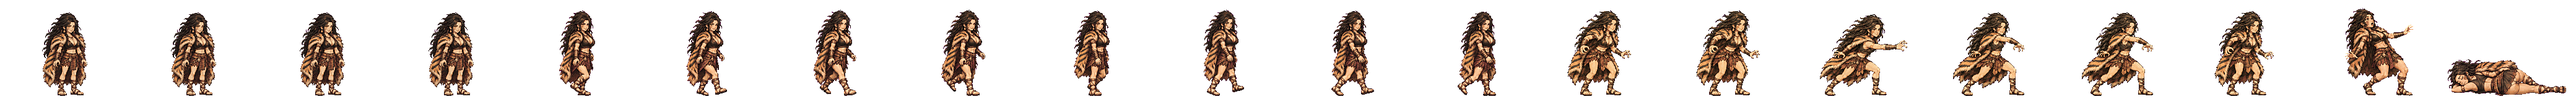
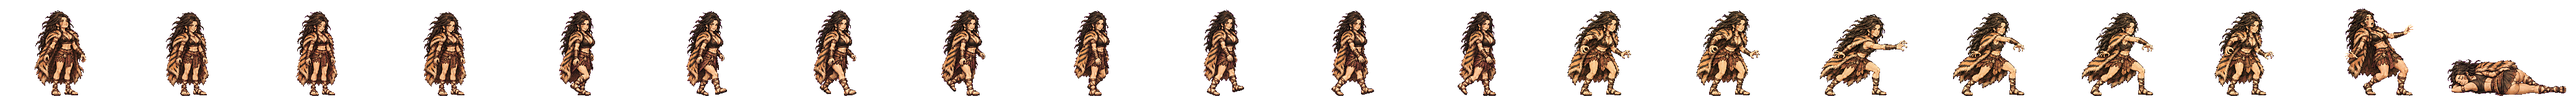
범 서기를 그린 숨쉬기로 (형 11-23: idle 을 코드로 밀지 말 것): 들이쉼·바로·내쉼·바로 네 칸 · 굽는 코드가 줄마다 키를 맞추고(아랫줄 x0.943) 발 자리를 한곳에 고정
Claude-Session: https://claude.ai/code/session_01TRiuN7s6aDfSnaHxrkctmU

Changed region(s): [[0.0625, 0.125, 0.1875, 0.9688], [0.0, 0.125, 0.0312, 0.9688]]

diff --git a/tools/sprite-kit/bake-scene.py b/tools/sprite-kit/bake-scene.py
@@ -54,7 +54,7 @@ def stand(path, name, idx=3, height=N):
     print(f'{name}: 사람 {len(figs)}명 중 {idx}째 · 원본 {me.size} → 게임 {g.size} (소서노 {refh}px 기준)')
 
 
-def motion(path, name, tag, scene=None, zoom=Z):
+def motion(path, name, tag, scene=None, zoom=Z, rows=False):
     out = Image.open(path).convert('RGB'); W, H = out.size; cw, ch = W / 3, H / 2; scale = 1 / zoom * (640 / cw)   # zoom = 장면을 만든 배(기본 4 · z3 장면은 3)
     src = None
     if scene: src = Image.open(scene).convert('RGB'); sw, sh = src.size[0] / 3, src.size[1] / 2
@@ -66,6 +66,21 @@ def motion(path, name, tag, scene=None, zoom=Z):
     for bi in range(1, nlab + 1):
         ys_b, xs_b = np.nonzero((lab == bi) & solid)
         if len(xs_b) > 400: blobs.append((bi, len(xs_b), (xs_b.min() + xs_b.max()) / 2, (ys_b.min() + ys_b.max()) / 2, xs_b.min(), xs_b.max() + 1, ys_b.min(), ys_b.max() + 1))
+    # rows: 서 있는 자세만 든 판(서기 숨쉬기)은 줄마다 가운데 키를 왼쪽 위 서기 그림에 맞춘다 — 그림 도구가 아랫줄을 5~6% 크게 그린다(11-23)
+    row_k = {0: 1.0, 1: 1.0}
+    if rows:
+        ident = [b for b in blobs if b[2] < cw and b[3] < ch]
+        ref_h = (max(ident, key=lambda b: b[1])[7] - max(ident, key=lambda b: b[1])[6]) if ident else None
+        for jj in range(2):
+            hs = []
+            for ii in range(2):
+                m_ = [b for b in blobs if cw * (1 + ii) <= b[2] < cw * (2 + ii) and ch * jj <= b[3] < ch * (jj + 1)]
+                if m_:
+                    bb = max(m_, key=lambda b: b[1])
+                    hs.append(bb[7] - bb[6])
+            if ref_h and hs:
+                row_k[jj] = ref_h * 1.005 / float(np.median(hs))
+            print(f'줄{jj + 1} 크기 맞춤 x{row_k[jj]:.3f}')
     for n, (j, i) in enumerate(((0, 0), (0, 1), (1, 0), (1, 1))):
         gx0, gy0 = round(cw * (1 + i)), round(ch * j)
         c = key(out.crop((gx0, gy0, round(cw * (2 + i)), round(ch * (j + 1))))); m = c[..., 3] > 60   # 판정(자세 겹침)은 칸 그대로
@@ -73,9 +88,9 @@ def motion(path, name, tag, scene=None, zoom=Z):
         if not mine: print(f'칸{n + 1}: 사람을 못 찾음'); continue
         bi, _, bcx, _, bx0, bx1, by0, by1 = max(mine, key=lambda b: b[1])
         whole = full[by0:by1, bx0:bx1].copy(); whole[..., 3] = np.where(lab[by0:by1, bx0:bx1] == bi, whole[..., 3], 0)
-        g = game(Image.fromarray(whole), scale); gm = np.asarray(g)[..., 3] > 0; ys, xs = np.nonzero(gm)
+        g = game(Image.fromarray(whole), scale * row_k[j]); gm = np.asarray(g)[..., 3] > 0; ys, xs = np.nonzero(gm)
         cell = Image.new('RGBA', (CELL_W, CELL), (0, 0, 0, 0)); g2 = g.crop((xs.min(), ys.min(), xs.max() + 1, ys.max() + 1))
-        off = (bcx - (gx0 + cw / 2)) * scale                                   # 칸 한가운데에서 벗어난 만큼(게임 화소) — 칸 안의 가로 자리를 지킨다
+        off = (bcx - (gx0 + cw / 2)) * scale * row_k[j]                                   # 칸 한가운데에서 벗어난 만큼(게임 화소) — 칸 안의 가로 자리를 지킨다
         ox = round(CELL_W / 2 + off - g2.size[0] / 2)
         if bx0 < gx0 - 2 or bx1 > gx0 + cw + 2: print(f'  칸{n + 1}: 사람이 칸 금을 넘어가 있음(통째로 살림)')
         if g2.size[0] > CELL_W: print(f'  칸{n + 1}: 폭 {g2.size[0]} > 칸 {CELL_W} — 줄여 넣음'); g2 = g2.resize((CELL_W, round(g2.size[1] * CELL_W / g2.size[0])), Image.BOX)
@@ -161,5 +176,5 @@ if __name__ == '__main__':
         sys.exit()
     if sys.argv[1] == 'stand': stand(sys.argv[2], sys.argv[3], int(sys.argv[4]) if len(sys.argv) > 4 else 3)
     else:
-        rest = [a for a in sys.argv[5:] if a != 'z3']
-        motion(sys.argv[2], sys.argv[3], sys.argv[4], rest[0] if rest else None, 3 if 'z3' in sys.argv[5:] else Z)
+        rest = [a for a in sys.argv[5:] if a not in ('z3', 'rows')]
+        motion(sys.argv[2], sys.argv[3], sys.argv[4], rest[0] if rest else None, 3 if 'z3' in sys.argv[5:] else Z, 'rows' in sys.argv[5:])

diff --git a/tools/sprite-kit/strip-build.py b/tools/sprite-kit/strip-build.py
@@ -32,7 +32,16 @@ def main(name, atk, out):
     # 서기: 코드로 윗몸을 밀지 않는다 (11-23 형 「idle 누가 코드로 짜랬냐 · 몸이 막 잘리잖아」). 그린 서기 판(<이름>-idle-1..4)이 있으면 그것, 없으면 네 칸 모두 같은 그림.
     import os
     # 그린 서기 판의 칸: 1 바로 섬 · 2 들이쉼 · 3 한 다리에 무게(발 자리가 달라 숨쉬기에는 안 쓴다) · 4 내쉼 → 띠에는 들이쉼 · 바로 · 내쉼 · 바로
-    frames = [cell('idle', i) for i in (2, 1, 4, 1)] if os.path.exists(f'{PXD}/{name}-idle-1.png') else [stand] * 4
+    def feet_fixed(im):
+        # 서기 칸은 발이 한자리에: 발바닥 띠의 가운데를 칸 한가운데(CX)에 맞춘다 (칸마다 5px 씩 어긋나 있었다 · 11-23)
+        a = np.asarray(im)[..., 3] > 0
+        ys, xs = np.nonzero(a)
+        fx = np.nonzero(a[ys.max() - 6:ys.max() + 1])[1]
+        d = int(round(CX - (fx.min() + fx.max()) / 2))
+        o = Image.new('RGBA', im.size, (0, 0, 0, 0))
+        o.alpha_composite(im.crop((max(0, -d), 0, im.size[0] - max(0, d), im.size[1])), (max(0, d), 0))
+        return o
+    frames = [feet_fixed(cell('idle', i)) for i in (2, 1, 4, 1)] if os.path.exists(f'{PXD}/{name}-idle-1.png') else [stand] * 4
     frames += [cell('walk-a', i) for i in (3, 4, 1, 2)] + [cell('walk-b', i) for i in (3, 4, 1, 2)]
     frames += [cell(atk, i) for i in (1, 1, 2, 3, 3, 4)]
     frames += [cell('down', 1), cell('down', 4)]
